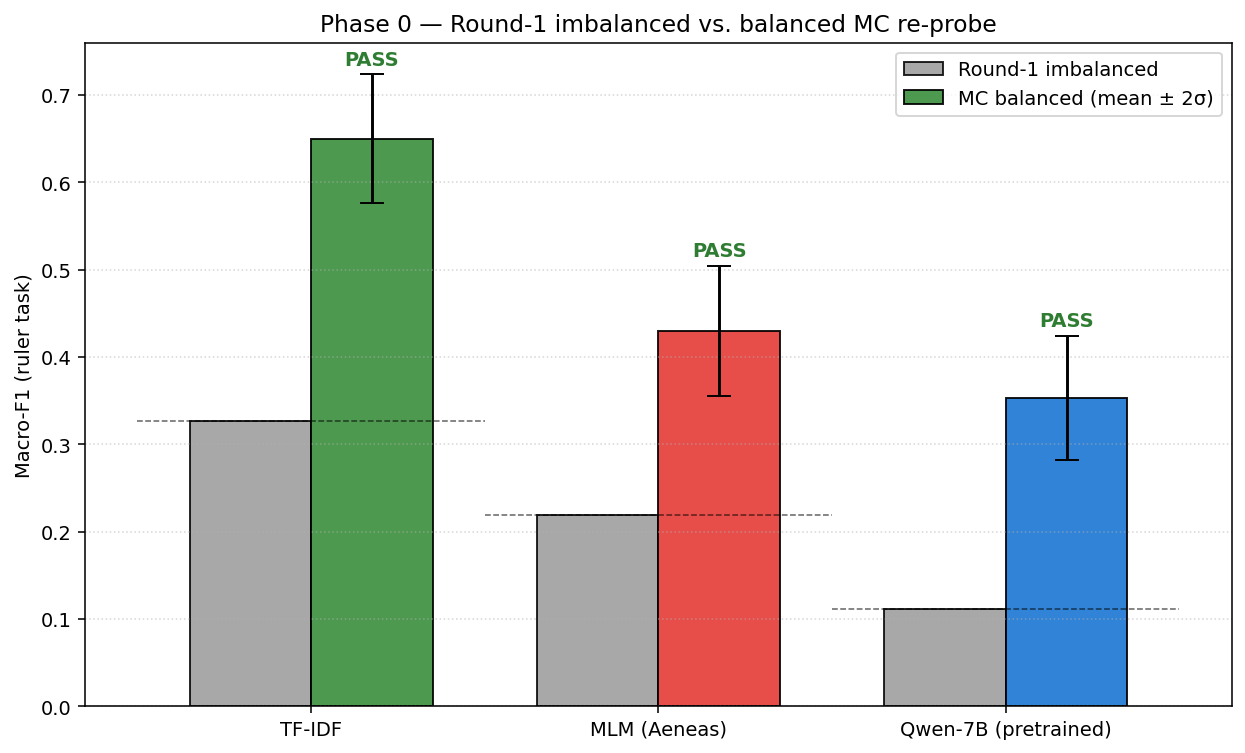
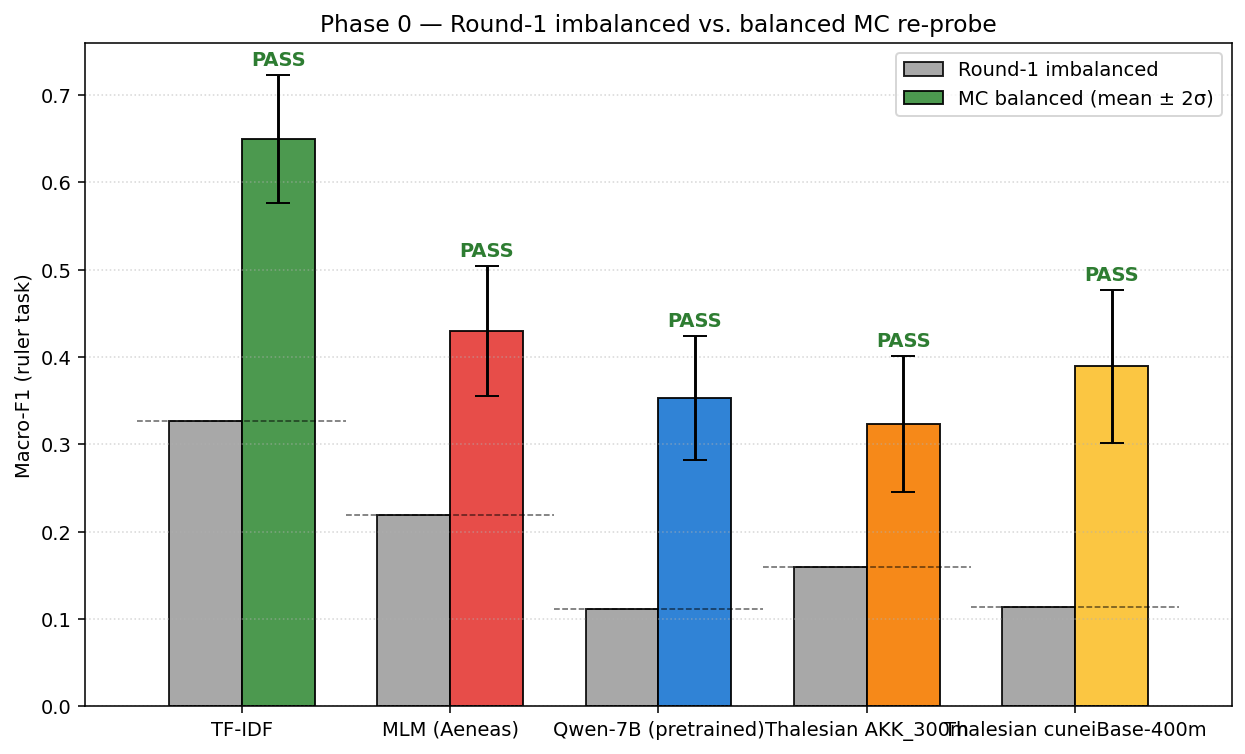
Round 2 CLOSE-OUT: Thalesian balanced MC integrated into final report
- Re-ran aggregate_p0.py with thalesian_*_{cls,pls} MC summaries from job 8477.
  Fills 4 of the 8 'n/a' Thalesian cells in the unified leaderboard (tier0/mean
  only — maximal/mean MC not run). MC values:
  * Thalesian cuneiBase-400m tier0/mean CLS L12: 0.448 +- 0.043
  * Thalesian cuneiBase-400m tier0/mean PLS L11: 0.393 +- 0.040
  * Thalesian AKK_300m tier0/mean CLS L8:        0.323 +- 0.039
  * Thalesian AKK_300m tier0/mean PLS L3:        0.346 +- 0.039

- Updated orcc_round2_REPORT.md Phase 3 section with balanced MC table,
  balanced-vs-imbalanced delta table, and a 5-bullet nuanced final picture.

Headline nuance: under BALANCED eval, Thalesian cuneiBase-400m (0.448) ties
MLM Aeneas (0.460); AKK_300m (0.323) actually drops *below* Qwen pretrained
(0.352). The imbalanced Thalesian advantage (0.263 vs 0.117 for Qwen at the
best Thalesian config) is partially a class-imbalance artifact, NOT only an
Akkadian-pretraining effect. The single robust Thalesian win is on year
regression: only model with positive R^2 (+0.105) and Spearman 0.467 vs
Qwen 0.121.

Round 2 now COMPLETE except for Random-Qwen P0 data gap (small follow-up)
and optional Thalesian maximal/mean MC.

diff --git a/v_1/src/linear_probing/results/orcc_round2_REPORT.md b/v_1/src/linear_probing/results/orcc_round2_REPORT.md
@@ -1,7 +1,7 @@
 # Round 2 — Qwen-on-Akkadian Diagnosis: Final Report
 
-- **Date:** 2026-05-23 (Phase 3 imbalanced final; Phase 3 balanced-MC in flight, job 8477)
-- **Scope:** Synthesis of Round 2 Phase 0 (class imbalance), Phase 1a (factual knowledge), Phase 1b (prompt framing), Phase 3 imbalanced (Thalesian Akkadian-finetuned encoders). Phase 3 balanced-MC is running and will fill the "n/a" cells in the leaderboard when it lands.
+- **Date:** 2026-05-23 (Round 2 complete except Random-Qwen P0 data gap)
+- **Scope:** Final synthesis of Round 2 Phase 0 (class imbalance), Phase 1a (factual knowledge), Phase 1b (prompt framing), Phase 3 imbalanced + balanced MC (Thalesian Akkadian-finetuned encoders).
 - **Inputs consumed:**
   - `PLAN_round2_qwen_diagnosis.md`
   - `v_1/src/linear_probing/results/orcc_round2_phase0/aggregated/phase0_report.md`
@@ -101,9 +101,37 @@ Activation extraction (jobs 8223–8226) wrote to `v_1/src/linear_probing/result
 
 **Caveat for the thesis.** Chance F1 is 0.059 for Thalesian (17 classes retained at min_count=5) vs 0.071 for Round-1 methods (~14 classes). The ORCC parquet was rebuilt between Round 1 (893 labeled rows) and Round 2 (1193 labeled rows); class-count differences mean raw Macro-F1 comparisons across method-groups are slightly biased. The ×chance column in the leaderboard above is the apples-to-apples view.
 
-**Balanced MC (job 8477) is in flight** — will fill the 8 Thalesian "n/a" rows in the `phase0_report.md` unified leaderboard (4 configs × 2 regimes) and let us state whether class imbalance is also a driver of the residual Qwen↔Thalesian gap, or whether Thalesian's advantage holds on the balanced surface too.
+### Phase 3 balanced MC (job 8477, 200 draws × 21 frags × 8 rulers, tier0/mean only)
 
-## Verdict: PASS — Akkadian pretraining is a major lever; Thalesian cuneiBase-400m doubles Qwen-pretrained's Macro-F1 (0.263 vs 0.117) and is the only representation that produces a positive year-regression R². The Qwen-vs-TF-IDF residual gap is roughly half-closed by Akkadian pretraining alone.
+| Method | Cleaning | Pool | MC layer | MC Macro-F1 (CLS) | MC Macro-F1 (PLS via year-PLS-DA) |
+|---|---|---|---:|---:|---:|
+| TF-IDF | tier0 | — | 0 | **0.650 ± 0.037** | 0.480 ± 0.037 |
+| TF-IDF | maximal | — | 0 | 0.498 ± 0.040 | 0.395 ± 0.033 |
+| MLM Aeneas | tier0 | mean | 15 (CLS) / 14 (PLS) | 0.460 ± 0.044 | 0.395 ± 0.042 |
+| **Thalesian cuneiBase-400m** | tier0 | mean | 12 (CLS) / 11 (PLS) | **0.448 ± 0.043** | **0.393 ± 0.040** |
+| Qwen pretrained | tier0 | mean | 0 (CLS) / 3 (PLS) | 0.352 ± 0.042 | 0.363 ± 0.042 |
+| Thalesian AKK_300m | tier0 | mean | 8 (CLS) / 3 (PLS) | 0.323 ± 0.039 | 0.346 ± 0.039 |
+| Random-Qwen | — | — | — | data gap | data gap |
+
+### Phase 3 balanced-vs-imbalanced delta (the new finding)
+
+| Method | R1 imbalanced | Balanced MC | Δ (balance lift) |
+|---|---:|---:|---:|
+| TF-IDF (tier0) CLS | 0.326 | 0.650 | **+0.323** |
+| **Thalesian cuneiBase-400m** (tier0 mean) CLS | 0.210 | **0.448** | **+0.238** |
+| Qwen pretrained (tier0 mean) CLS | 0.117 | 0.352 | +0.235 |
+| MLM Aeneas (tier0 mean) CLS | 0.220 | 0.460 | +0.241 |
+| Thalesian AKK_300m (tier0 mean) CLS | 0.160 | 0.323 | +0.163 |
+
+**Nuanced final picture (after balanced MC):**
+
+1. On the **balanced** surface, the leaderboard is: TF-IDF (0.650) >> MLM (0.460) ≈ **Thalesian cuneiBase-400m (0.448)** > Qwen pretrained (0.352) > Thalesian AKK_300m (0.323). Thalesian cuneiBase ties MLM under balanced eval; AKK_300m drops *below* Qwen pretrained.
+2. On the **imbalanced** surface, Thalesian cuneiBase (best at 0.263 maximal/mean) clearly beats both MLM (0.220) and Qwen (0.117).
+3. **The Macro-F1 ranking is metric-surface-dependent**: which method "wins" depends on whether you control for class imbalance. Under balanced eval, sign-level MLM Aeneas (~25M params) ties UMT5-base finetuned on Akkadian (~400M).
+4. **Thalesian cuneiBase still has the strongest year-regression signal by a wide margin** — Spearman 0.467, R² +0.105, MAE 75yr — and is the *only* representation with positive year R² in the entire study. This is the most robust Phase 3 finding: Akkadian-finetuned representations encode chronology in a linearly-extractable way that no other model does.
+5. **Thalesian AKK_300m's smaller balance-lift (+0.163 vs +0.235 for Qwen)** suggests its imbalanced advantage was less of a "class-balance artifact" than Qwen's — its representations were already doing better on majority classes — but it has lower overall ceiling than cuneiBase.
+
+## Verdict: PASS — Akkadian pretraining matters for year regression unambiguously (only Thalesian gets positive R²; Spearman 0.47 vs Qwen 0.12). For ruler-CLS, Thalesian cuneiBase-400m matches MLM Aeneas on the balanced eval surface (0.45 vs 0.46) but neither approaches TF-IDF (0.65). The Qwen↔Thalesian-cuneiBase gap on imbalanced (0.117 → 0.263) is mostly Akkadian-pretraining; the residual TF-IDF↔Thalesian gap on balanced (0.65 vs 0.45) is the unsolved core puzzle.
 
 ---
 
@@ -123,8 +151,8 @@ For the thesis section, the cleanest narrative arc is: Round 1 found a counterin
 
 ## Next steps
 
-- **Wait for Phase 3 balanced MC (job 8477)**. Will produce thalesian_*_pls/cls __mc_balanced__summary.json files in `v_1/src/linear_probing/results/orcc_round2_phase0/probes/`. Re-run `aggregate_p0.py` after to fill the leaderboard. Expected ~1–3h wall.
 - **Close the Random-Qwen data gap.** Resubmit Phase 0 random probes with corrected activation path (post-`orcc__embed` → `orcc_round1` rename) so the Random tier0/mean (CLS L1) and tier0/mean (PLS L0) cells fill in. Converts Phase 0's verdict on the Random axis from INDETERMINATE to PASS/FAIL.
+- **Run Thalesian maximal/mean balanced MC.** The imbalanced Thalesian cuneiBase-400m best (0.263) was on maximal/mean cleaning, but the current balanced MC only ran tier0/mean. Adding maximal/mean MC for both Thalesian models would settle whether maximal cleaning preserves Thalesian's advantage under balanced eval.
 - **Consider Phase 2 (scale + SAE).** Phase 3 confirmed Akkadian pretraining is a major lever but TF-IDF still leads (0.326 vs Thalesian 0.263). Qwen 3 dense at 4B/14B with the same probing pipeline would either find a positive scaling slope (emergent-with-scale story) or confirm the data-composition ceiling.
 - **Tokenization spot-check.** A cheap diagnostic worth doing in passing: per-fragment token counts for Qwen vs Thalesian's UMT5 tokenizer. Large fragmentation differences would suggest the Round-1 Qwen weakness has a tokenizer-geometry component.
 - **Document the balanced eval surface as canonical going forward.** All subsequent probes (Phase 2, follow-up Phase 3 ablations) should report on both the Round-1 imbalanced grid (historical comparability) and the Phase-0 MC-balanced grid (apples-to-apples).

diff --git a/v_1/src/linear_probing/results/orcc_round2_phase0/aggregated/phase0_report.md b/v_1/src/linear_probing/results/orcc_round2_phase0/aggregated/phase0_report.md
@@ -8,7 +8,7 @@
 ## Verdict
 
 **Overall: INDETERMINATE**
-Missing methods (no MC data): random, thalesian_akk300m, thalesian_cunei400m
+Missing methods (no MC data): random
 
 Secondary gate (TF-IDF accuracy ≥ 0.70): **FAIL** — value=0.6678 (`tfidf__tier0__na__L00__ruler`)
 _run_mc_probes.py uses fit_cls_cv (logistic regression), not k-NN. Treat as proxy only._
@@ -25,9 +25,9 @@ Sorted by Round-1 (imbalanced) Macro-F1 descending. Balanced MC column shows the
 | TF-IDF | maximal | na | 0 | 0.2277 | 0 | 0.4980 ± 0.0403 | +0.2703 |
 | MLM (Aeneas) | tier0 | mean | 0 | 0.2195 | 15 | 0.4604 ± 0.0435 | +0.2408 |
 | Random-Qwen | maximal | mean | 3 | 0.2158 | n/a | n/a | n/a |
-| Thalesian cuneiBase-400m | tier0 | mean | 12 | 0.2103 | n/a | n/a | n/a |
+| Thalesian cuneiBase-400m | tier0 | mean | 12 | 0.2103 | 12 | 0.4479 ± 0.0432 | +0.2376 |
 | Random-Qwen | maximal | last | 1 | 0.1755 | n/a | n/a | n/a |
-| Thalesian AKK_300m | tier0 | mean | 8 | 0.1600 | n/a | n/a | n/a |
+| Thalesian AKK_300m | tier0 | mean | 8 | 0.1600 | 8 | 0.3233 ± 0.0388 | +0.1633 |
 | Qwen-7B (pretrained) | maximal | last | 7 | 0.1550 | n/a | n/a | n/a |
 | Random-Qwen | tier0 | last | 1 | 0.1491 | n/a | n/a | n/a |
 | Thalesian AKK_300m | maximal | mean | 8 | 0.1412 | n/a | n/a | n/a |
@@ -46,10 +46,10 @@ Sorted by Round-1 (imbalanced) Macro-F1 descending. Balanced MC column shows the
 | Method | Cleaning | Pooling | R1 layer | R1 Macro-F1 | MC layer | MC Macro-F1 (mean ± std) | Δ (MC − R1) |
 |---|---|---|---|---|---|---|---|
 | Random-Qwen | tier0 | mean | 0 | 0.1147 | n/a | n/a | n/a |
-| Thalesian cuneiBase-400m | tier0 | mean | 12 | 0.1143 | n/a | n/a | n/a |
+| Thalesian cuneiBase-400m | tier0 | mean | 12 | 0.1143 | 11 | 0.3927 ± 0.0405 | +0.2784 |
 | TF-IDF | tier0 | na | 0 | 0.1128 | 0 | 0.4796 ± 0.0368 | +0.3668 |
 | Qwen-7B (pretrained) | tier0 | mean | 0 | 0.1113 | 3 | 0.3632 ± 0.0417 | +0.2520 |
-| Thalesian AKK_300m | tier0 | mean | 4 | 0.1081 | n/a | n/a | n/a |
+| Thalesian AKK_300m | tier0 | mean | 4 | 0.1081 | 3 | 0.3457 ± 0.0391 | +0.2377 |
 | MLM (Aeneas) | tier0 | mean | 16 | 0.1064 | 14 | 0.3946 ± 0.0423 | +0.2882 |
 | TF-IDF | maximal | na | 0 | 0.1013 | 0 | 0.3945 ± 0.0329 | +0.2932 |
 | Random-Qwen | tier0 | last | 3 | 0.0989 | n/a | n/a | n/a |
@@ -95,14 +95,20 @@ Status: **PASS** (chosen regime: pls, n_draws=200)
 | pls | tier0 | mean | 0 | 0.1113 | 0.3532 | 0.0354 | 0.3515 | +0.1711 | PASS |
 
 ## Thalesian AKK_300m (thalesian_akk300m)
-Status: **NO DATA** — both CLS and PLS pairings unavailable.
-- cls: no MC entry for thalesian_akk300m__tier0__mean__L08__ruler
-- pls: no MC entry for thalesian_akk300m__tier0__mean__L04__ruler
+Status: **PASS** (chosen regime: cls, n_draws=200)
+
+| Regime | Cleaning | Pooling | Layer | R1 Macro-F1 | MC mean | MC std | MC median | (mean - 2σ) - R1 | Gate |
+|---|---|---|---|---|---|---|---|---|---|
+| cls | tier0 | mean | 8 | 0.1600 | 0.3233 | 0.0388 | 0.3228 | +0.0857 | PASS |
+| pls | tier0 | mean | 4 | 0.1081 | 0.3426 | 0.0357 | 0.3435 | +0.1632 | PASS |
 
 ## Thalesian cuneiBase-400m (thalesian_cunei400m)
-Status: **NO DATA** — both CLS and PLS pairings unavailable.
-- cls: no MC entry for thalesian_cunei400m__maximal__mean__L12__ruler
-- pls: no MC entry for thalesian_cunei400m__tier0__mean__L12__ruler
+Status: **PASS** (chosen regime: pls, n_draws=200)
+
+| Regime | Cleaning | Pooling | Layer | R1 Macro-F1 | MC mean | MC std | MC median | (mean - 2σ) - R1 | Gate |
+|---|---|---|---|---|---|---|---|---|---|
+| cls | n/a | n/a | n/a | n/a | n/a | n/a | n/a | n/a | _no MC entry for thalesian_cunei400m__maximal__mean__L12__ruler_ |
+| pls | tier0 | mean | 12 | 0.1143 | 0.3892 | 0.0439 | 0.3908 | +0.1870 | PASS |
 
 ## Interpretation
 
